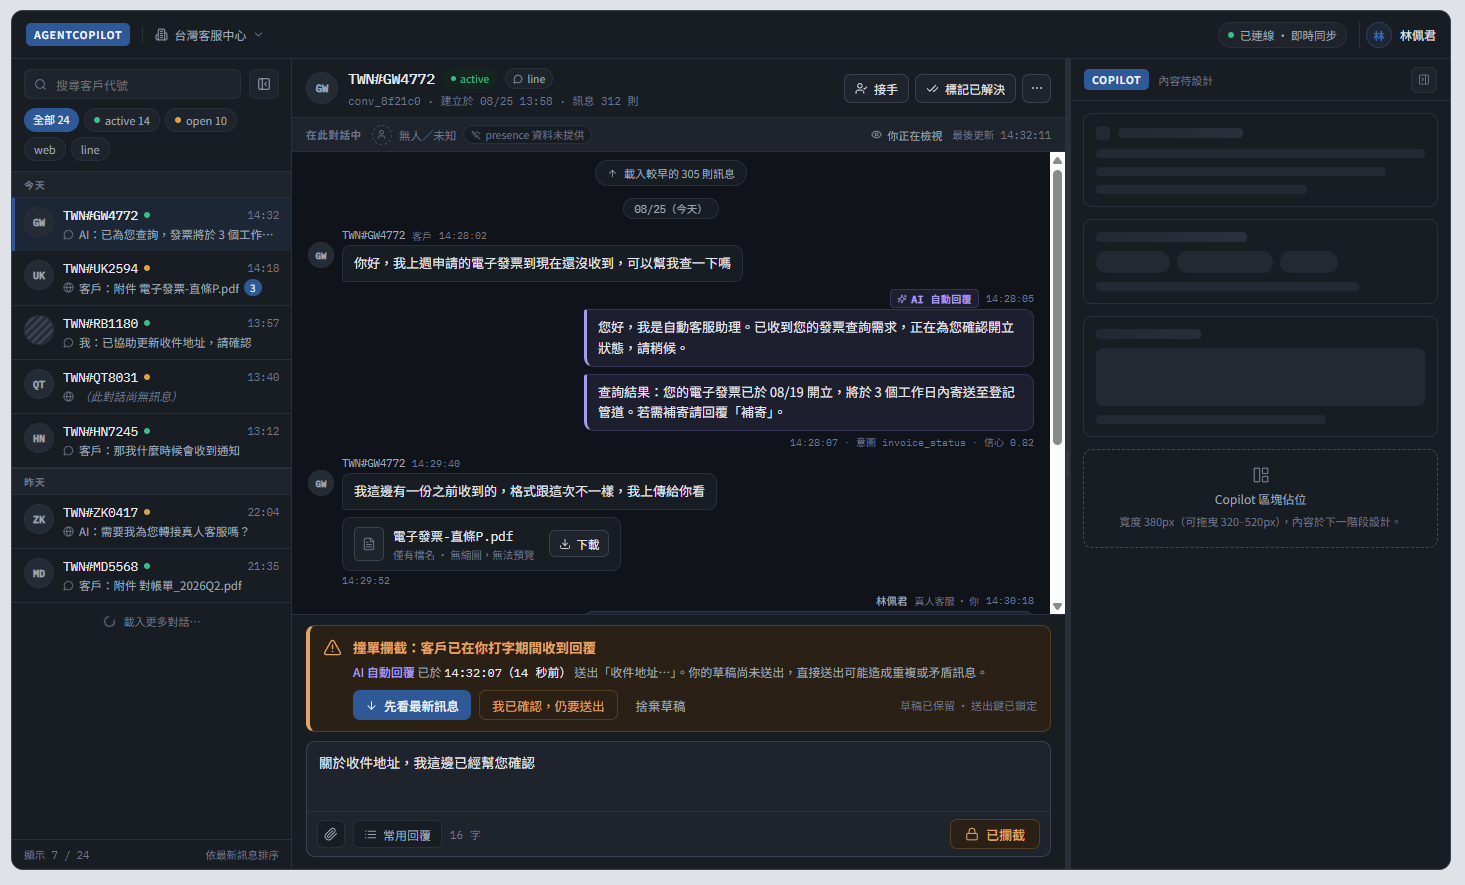
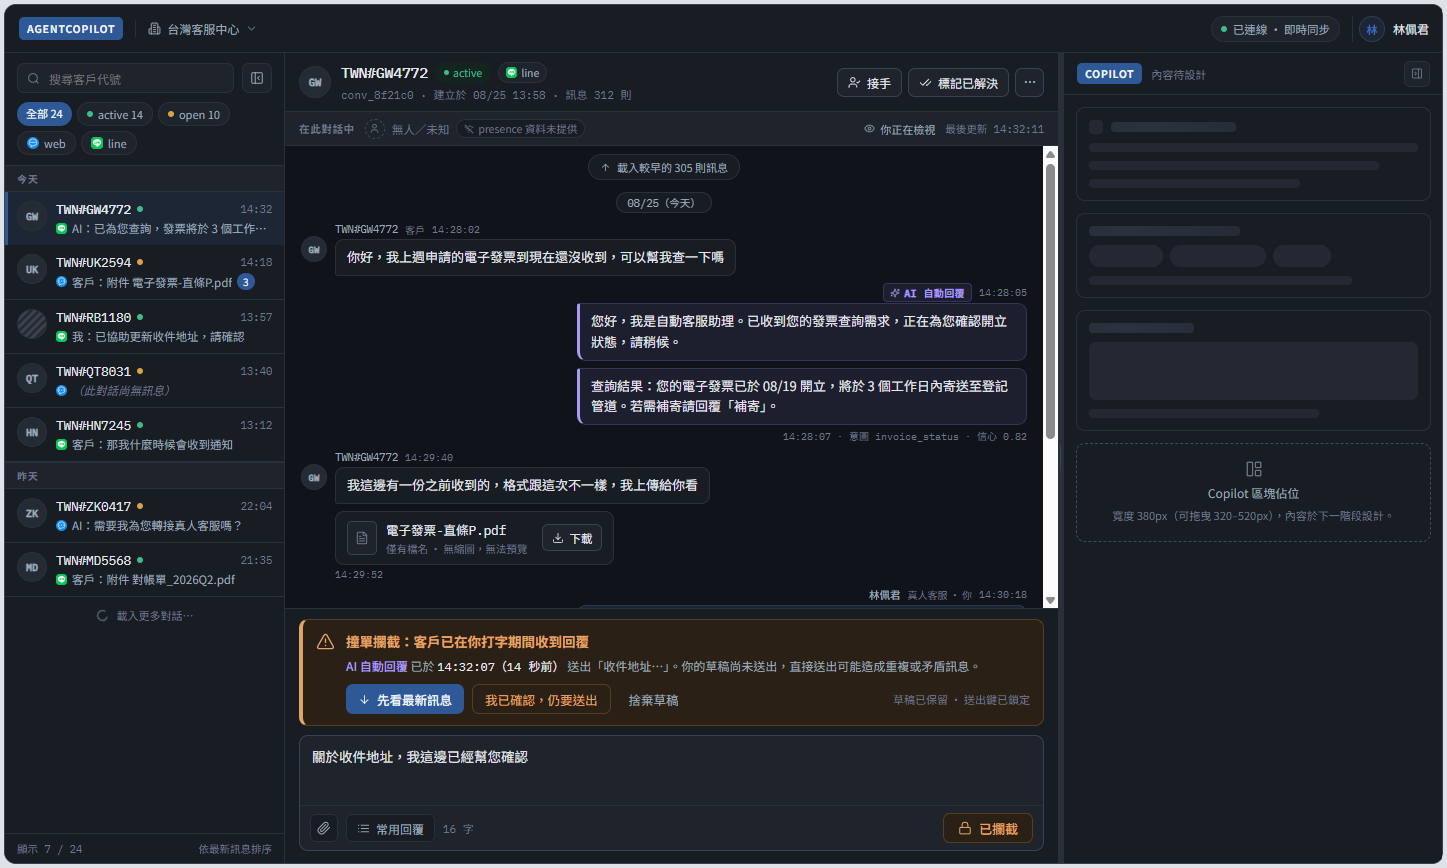
docs: 同步知識庫快查截圖，移除殘留的 SOP 編號 UI
畫布擁有者更新 2a Copilot 面板第 3 區塊（知識庫快查）與對應的 1c 主工作區截圖，
移除先前仍殘留的「SOP #12 · 2026/05」編號＋日期格式——與 research.md #2 的最終決定
（iMBrace 知識庫沒有正式編號制度，只顯示標題＋更新日期）不一致的地方已修正。
一併更新 DESIGN_TOKENS.md §7.2 第 3 點過期的「截圖尚未同步」註記，避免文件與截圖脫鉤。

diff --git a/docs/DESIGN_TOKENS.md b/docs/DESIGN_TOKENS.md
@@ -251,7 +251,7 @@ box-shadow: var(--shadow)
 
 1. **客戶情緒提示**（tag「近 5 輪」）—— 情緒警示 pill（如「⚠ 焦慮偏高」，橘色，疑似沿用 `--warn`/`--warn-bg` 色票）＋ 折線走勢圖（score，如「0.72 ↑」）＋ 一段文字摘要（近幾輪情緒變化與建議）＋ 情緒量表圖例（`calm`／`neutral`／`concerned`／`frustrated`／`angry`，目前所在區間會被強調顯示）
 2. **AI 語意即時建議**（tag「N 則建議」，載入中顯示「產生中 x/y」）—— 一張或多張建議卡：標題 ＋ 語氣標籤（如 `apologetic`／`informative`）＋ 建議回覆全文 ＋「rationale：」推薦理由 ＋「複製」／「↵ 一鍵帶入」兩個按鈕；卡片間可捲動（「可捲動查看其餘建議」）。**「信心 NN」分數不是每張卡都有**——截圖裡第一張卡（安撫開場與時效承諾）畫了「信心 92」，緊接著的第二張卡（補寄工單建立流程）沒有信心分數，設計稿本身就是條件式呈現，見下方說明。（2026-08-27 訂正：卡片標題前原本畫有 `SOP #編號` 徽章，經核對真實知識庫資料後確認 iMBrace 沒有這套編號制度，畫布擁有者已同步移除該徽章並更新截圖與 artifact，見 `specs/002-suggestion-knowledge-search/research.md` #2）
-3. **知識庫自然語言快查** —— 搜尋輸入框（placeholder 為示範查詢句，如「發票補寄要多久」）＋ 結果清單，每筆：標題 ＋「插入為回覆」／「展開全文」按鈕；過期文件會多一條警示列（如「⏱ 已超過 12 個月未更新，引用前請確認」，疑似沿用 `--warn` 系色票）。⚠ **本節截圖尚未同步修正**：目前 `docs/wireframe/05-copilot-panel_4status_01.png` 此區塊仍畫有「SOP #12 · 2026/05」一類的編號＋日期格式，與第 2 區塊已移除編號的決定不一致；已與畫布擁有者確認**此區塊的編號也應一併移除**（僅顯示標題＋更新日期），截圖與 artifact 待後續一併更新，本文件先依最終決定描述，不逐字照抄目前截圖上這一處
+3. **知識庫自然語言快查** —— 搜尋輸入框（placeholder 為示範查詢句，如「發票補寄要多久」）＋ 結果清單，每筆：標題 ＋「插入為回覆」／「展開全文」按鈕；過期文件會多一條警示列（如「⏱ 已超過 12 個月未更新，引用前請確認」，疑似沿用 `--warn` 系色票）。（2026-08-27 訂正：本區塊原本仍畫有「SOP #12 · 2026/05」一類的編號＋日期格式，與第 2 區塊已移除編號的決定不一致；畫布擁有者已同步移除該編號並更新截圖與 artifact，見 `specs/002-suggestion-knowledge-search/research.md` #2）
 4. **AI 階段完整對話紀錄**（tag「共 N 則訊息」）—— 逐則對話紀錄（客／AI／客服三種發送者），支援附件顯示（PDF：檔名 ＋「PDF・檔名僅供辨識，無法預覽」；圖片：檔名 ＋「可預覽縮圖」）；區塊內可捲動，底部有一行「{{顯示｜隱藏}} AI 階段 x/y 則・可捲動」——**這行的動詞是「顯示」還是「隱藏」，兩張截圖肉眼判讀不一致，尚未確認，開工前務必核對原始檔**
 5. **結案摘要自動填入**（tag「AI 草稿・可修改」）—— 可編輯文字區塊（AI 生成的結案摘要草稿）＋ 三個分類 pill（「意圖：…」／「處理結果：…」／「情緒結果：…」）＋「draft {{時間}}」時間戳 ＋「↻ 重新產生」／「▤ 一鍵寫入 CRM」兩個按鈕 ＋ 一行提醒文字：「「一鍵寫入 CRM」是本面板唯一會寫入資料庫的動作，寫入後不可自動回復。」
 
